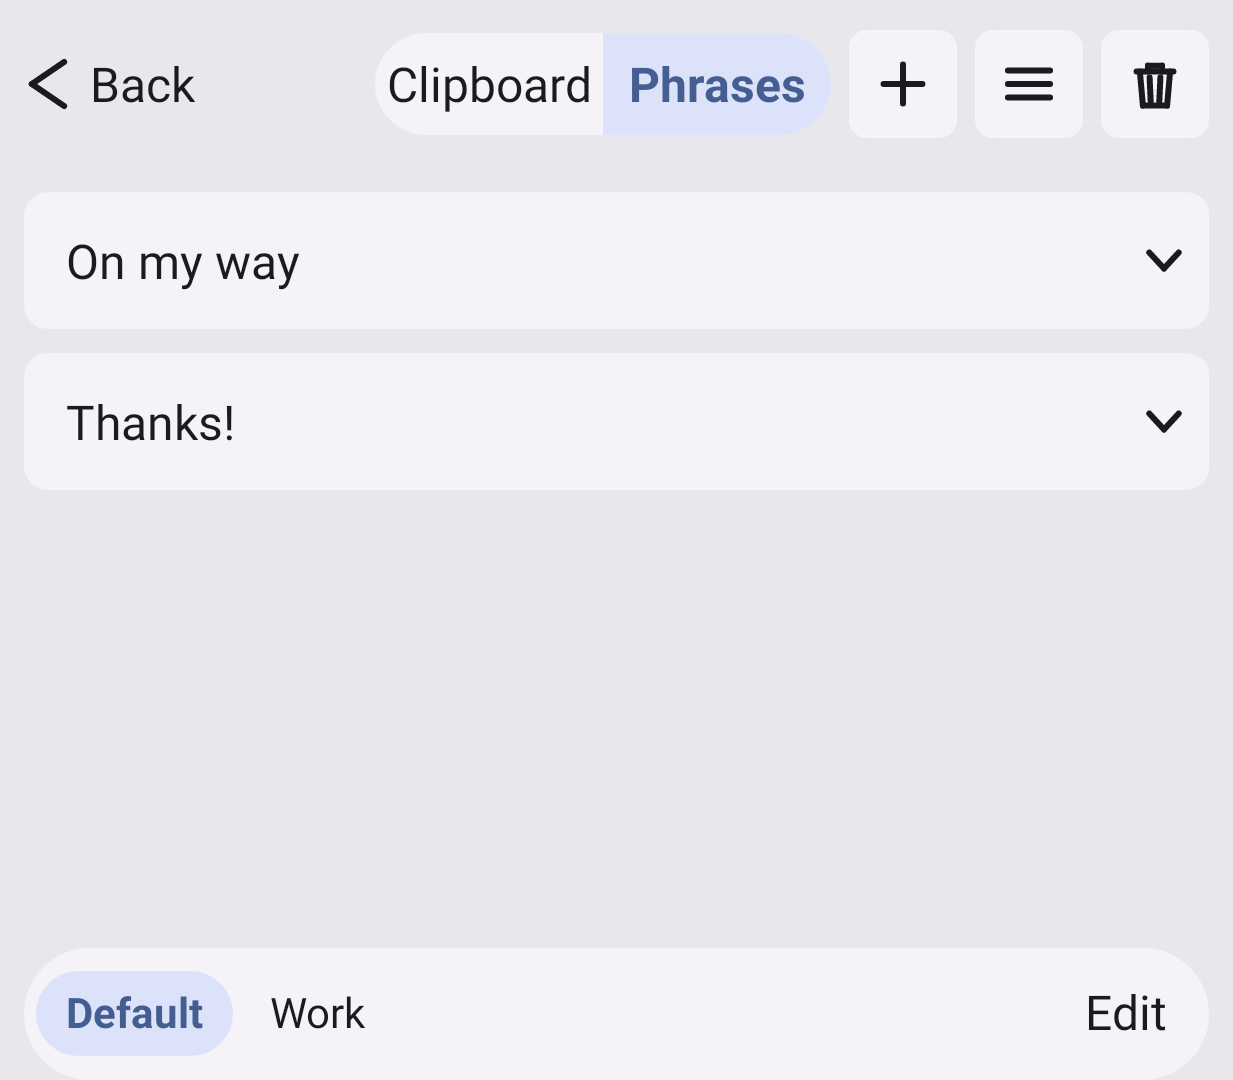
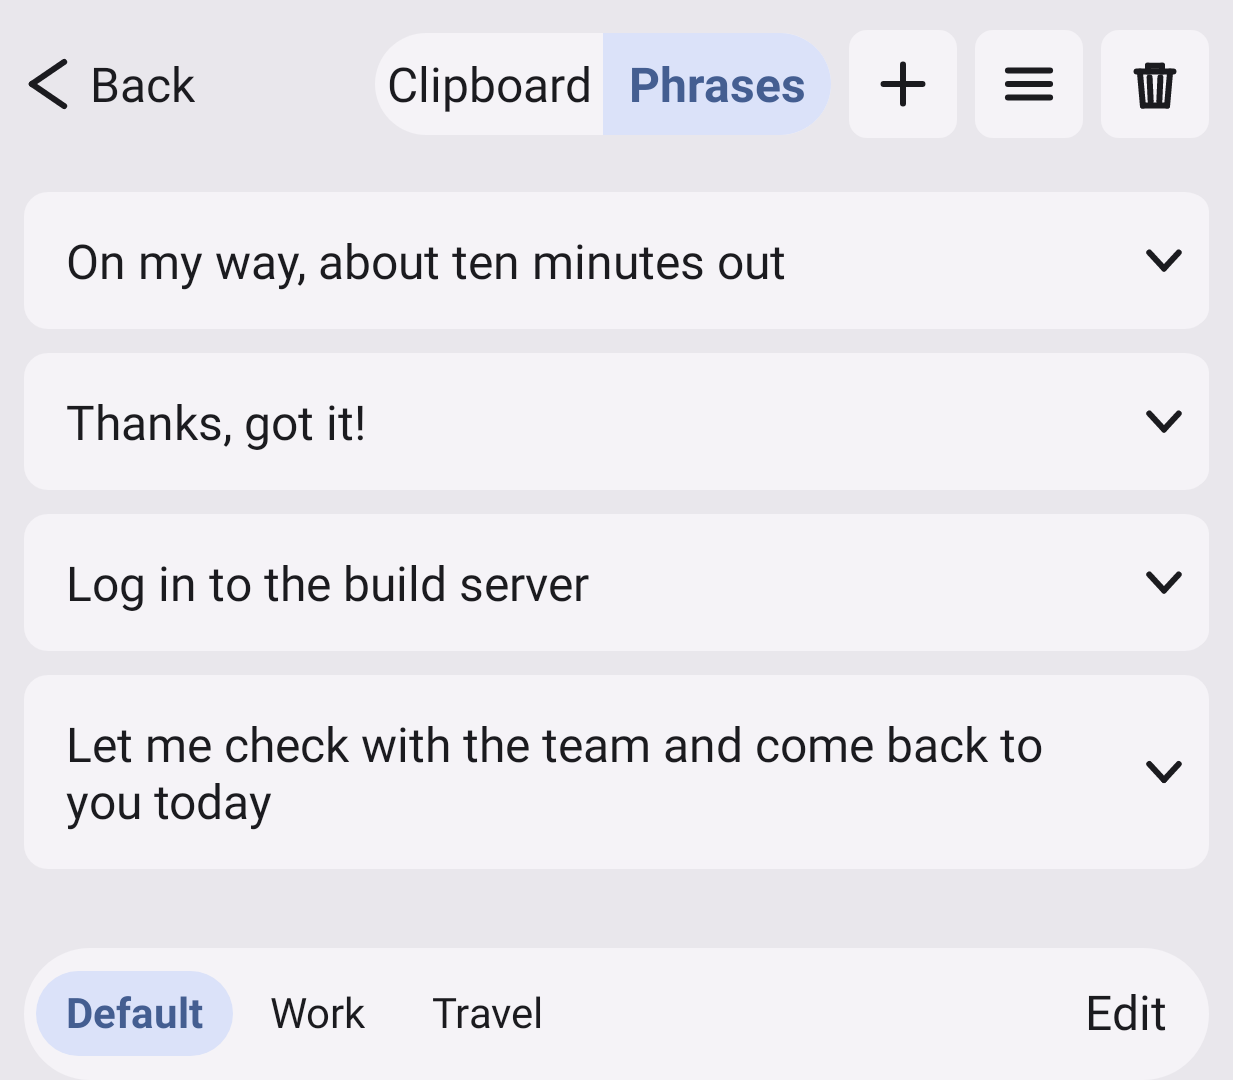
Show a stocked phrase list in the clipboard screenshots
The fixture held two short phrases, so most of the panel was empty
background. Give each locale four phrases in its own language and of
mixed length, a third category, and one note, which the panel shows in
place of the phrase it stands for. Refresh the history entries too.

diff --git a/app/src/test/java/com/aegis/ime/ime/BilingualScreenshotTest.kt b/app/src/test/java/com/aegis/ime/ime/BilingualScreenshotTest.kt
@@ -177,6 +177,7 @@ class BilingualScreenshotTest {
         history: List<String>,
         phraseCats: List<String>,
         phrasesOf: (String) -> List<String>,
+        notesOf: (String, String) -> String,
         symbols: List<String>,
     ) {
         dir.mkdirs()
@@ -221,6 +222,7 @@ class BilingualScreenshotTest {
                 historyProvider = { history.asClipEntries() }
                 categoriesProvider = { phraseCats }
                 phrasesInProvider = { c -> phrasesOf(c) }
+                phraseNoteProvider = { c, t -> notesOf(c, t) }
                 applyPalette(pal)
                 forcePhrasesStateForTest(com.aegis.ime.user.ClipboardStore.DEFAULT_CATEGORY_ID)
                 refresh()
@@ -250,9 +252,25 @@ class BilingualScreenshotTest {
         renderSet(
             lang = Lang.EN,
             dir = File(baseDir, "en"),
-            history = listOf("Meeting at 3pm", "https://example.com"),
-            phraseCats = listOf(com.aegis.ime.user.ClipboardStore.DEFAULT_CATEGORY_ID, "Work"),
-            phrasesOf = { c -> if (c == "Work") listOf("On my way", "Thanks!") else listOf("On my way", "Thanks!") },
+            history = listOf(
+                "Moved the review to 3pm tomorrow",
+                "https://example.com/handbook",
+                "Meeting room is on the 12th floor",
+            ),
+            phraseCats = listOf(com.aegis.ime.user.ClipboardStore.DEFAULT_CATEGORY_ID, "Work", "Travel"),
+            phrasesOf = { c ->
+                when (c) {
+                    "Work" -> listOf("Reviewed, looks good to me", "Let's sync after standup")
+                    "Travel" -> listOf("A window seat, please")
+                    else -> listOf(
+                        "On my way, about ten minutes out",
+                        "Thanks, got it!",
+                        "ssh root@10.0.0.1 -p 2222",
+                        "Let me check with the team and come back to you today",
+                    )
+                }
+            },
+            notesOf = { _, t -> if (t.startsWith("ssh")) "Log in to the build server" else "" },
             symbols = listOf(",", ".", "?"),
         )
 
@@ -267,9 +285,25 @@ class BilingualScreenshotTest {
         renderSet(
             lang = Lang.CN,
             dir = File(baseDir, "zh"),
-            history = listOf("第一条复制内容", "第二条内容"),
-            phraseCats = listOf(com.aegis.ime.user.ClipboardStore.DEFAULT_CATEGORY_ID, "工作"),
-            phrasesOf = { _ -> listOf("你好", "在吗") },
+            history = listOf(
+                "评审改到明天下午三点",
+                "https://example.com/handbook",
+                "会议室在 12 楼",
+            ),
+            phraseCats = listOf(com.aegis.ime.user.ClipboardStore.DEFAULT_CATEGORY_ID, "工作", "出行"),
+            phrasesOf = { c ->
+                when (c) {
+                    "工作" -> listOf("已审核，没有问题", "站会后我们对一下")
+                    "出行" -> listOf("麻烦帮我留一个靠窗的座位")
+                    else -> listOf(
+                        "在路上了，大概十分钟到",
+                        "收到，我马上处理",
+                        "ssh root@10.0.0.1 -p 2222",
+                        "不好意思，我这边临时有事，今天下午的会议能不能往后推半小时？",
+                    )
+                }
+            },
+            notesOf = { _, t -> if (t.startsWith("ssh")) "登录构建服务器" else "" },
             symbols = listOf("，", "。", "？"),
         )
 
